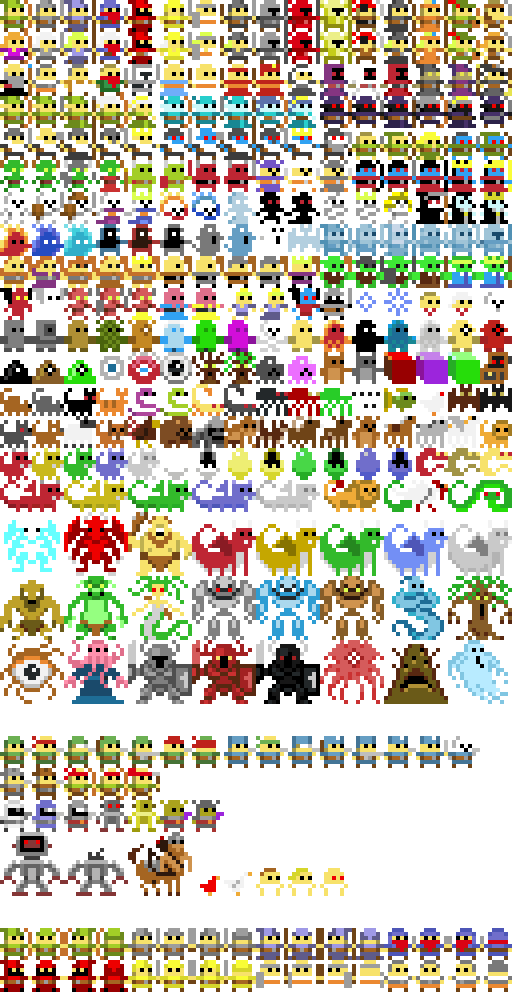
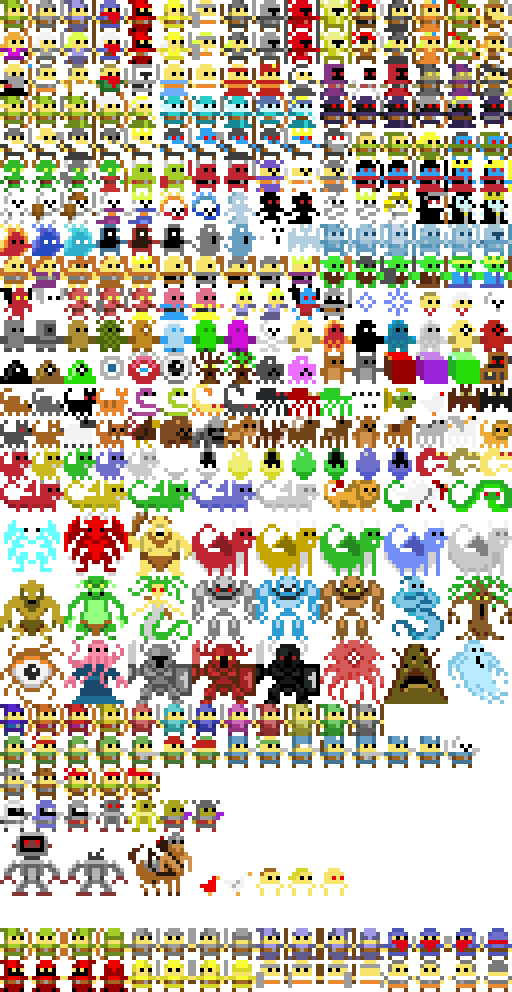
* Units now have different colors so that you can visually distinguish between units of the same class. The unit placement UI reflects this change. The inventory UI still shows the "default" colors.

Changed region(s): [[0.0, 0.6875, 0.75, 0.75]]

diff --git a/src/js/UnitPlacementUI.js b/src/js/UnitPlacementUI.js
@@ -168,22 +168,28 @@
         },
 
 		/**
-		* Figures out the CSS unit class for a specific unit type and returns it. This
-		* unit class is used to specify which image in the CSS file to use.
-		* @param  {PlaceableUnitType} unitType Type of unit
-		* @return {String}          Classes for the particular unit
+         * Figures out the CSS unit class for a specific unit type and returns
+         * it. This unit class is used to specify which image in the CSS file to
+         * use.
+         * @param  {PlaceableUnitType} unitType - Type of unit
+         * @param  {Number} index - the row index of the unit (color is based on
+         * this). Specify 0 to get the "default" color.
+         * @return {String}          Classes for the particular unit
 		*/
-		getCSSUnitClass: function(unitType) {
-			var unitClass;
+		getCSSUnitClass: function(unitType, index) {
+            // All classes start with this. We append to this string below.
+			var unitClass = 'char-sprite ';
+            if ( index > 4 ) index = 0;
+            
 			switch (unitType) {
 			    case game.PlaceableUnitType.ARCHER:
-			        unitClass = 'char-sprite arch32-png';
+                    unitClass += 'arch-alt-' + index + '-png';
 			        break;
 			    case game.PlaceableUnitType.WARRIOR:
-			        unitClass = 'char-sprite war32-png';
+                    unitClass += 'war-alt-' + index + '-png';
 			        break;
 			    case game.PlaceableUnitType.WIZARD:
-			        unitClass = 'char-sprite wiz32-png';
+                    unitClass += 'wiz-alt-' + index + '-png';
 			        break;
 			    default:
 			        console.log("ERROR: Unit type doesn't exist.")
@@ -244,6 +250,16 @@
         },
 
         /**
+         * Sets the buy icon to the correct unit color.
+         */
+        setBuyIconClass: function() {
+            var numUnits = game.UnitManager.getNumOfPlayerUnits(this.unitType);
+            var $unitPlacementBuyIcon = $('#unitPlacementBuyIcon');
+            $unitPlacementBuyIcon.removeAttr('class');
+            $unitPlacementBuyIcon.addClass(this.getCSSUnitClass(this.unitType, numUnits));
+        },
+
+        /**
          * Allows the user to place units and buy slots for all the units of the
          * specified unit type.
          * @param {PlaceableUnitType} unitType Type of unit
@@ -256,15 +272,17 @@
 			
 			$('#buyingScreenContainer').append('<div id="unitContainer">');
 			for (var i = 0; i < unitArray.length; i++) {
-				this.addSlotToPage(unitArray[i]);
+				this.addSlotToPage(unitArray[i], i);
 			}
 			$('#buyingScreenContainer').append('</div>');
 
-            var imageHTML = '<img src="'+game.imagePath+'/img_trans.png" class="'+this.getCSSUnitClass(unitType)+'" />';
+            var imageHTML = '<img id="unitPlacementBuyIcon" src="'+game.imagePath+'/img_trans.png"/>';
 
-			// Add a button to allow the player to buy a new slot
-			$('#buyingScreenContainer').append('<button id="buySlotButton"></button>' +
-												'<span id=buySlotButtonDescription>- Buy ' + imageHTML + ' slot</span>');
+            // Add a button to allow the player to buy a new slot
+            $('#buyingScreenContainer').append('<button id="buySlotButton"></button>' +
+                                                '<span id=buySlotButtonDescription>- Buy ' + imageHTML + ' slot</span>');
+
+            this.setBuyIconClass();
             $('#buySlotButton').button();
             $('#buySlotButton').text(this.costToPurchaseSlot(this.unitType));
             $('#buySlotButton').css({
@@ -285,10 +303,10 @@
 
 			$('#buyingScreenContainer').append('<div id="changingPagesDiv">' +
 											   '<img id="leftArrowImg" src="'+game.imagePath+'/left_arrow.png" width="32" height="32"/>' +
-											   '<img id="leftUnit" src="'+game.imagePath+'/img_trans.png" class="' + this.getCSSUnitClass(nextUnitLeftImage) + '" />' +
+											   '<img id="leftUnit" src="'+game.imagePath+'/img_trans.png" class="' + this.getCSSUnitClass(nextUnitLeftImage, 0) + '" />' +
 											   '<span id="leftUnitAmount" style="font-weight: bold; font-size: 20px; margin-right:2.00em">0</span>' +
 											   '<span id="rightUnitAmount" style="font-weight: bold; font-size: 20px">0</span>' +
-											   '<img id="rightUnit" src="'+game.imagePath+'/img_trans.png" class="' + this.getCSSUnitClass(nextUnitRightImage) + '" />' +
+											   '<img id="rightUnit" src="'+game.imagePath+'/img_trans.png" class="' + this.getCSSUnitClass(nextUnitRightImage, 0) + '" />' +
 											   '<img id="rightArrowImg" src="'+game.imagePath+'/right_arrow.png" width="32" height="32"/>' +
 											   '</div>');
 			$('#leftArrowImg,#leftUnit,#leftUnitAmount').click(function() {
@@ -409,12 +427,13 @@
         /**
          * Adds a slot to the page
          * @param {Unit} unit  Unit that will be in the slot
+         * @param {Number} index - the row index of the unit
          */
-        addSlotToPage: function(unit) {
+        addSlotToPage: function(unit, index) {
             var id = unit.id;
 
 			$('#unitContainer').append('<div id="unit'+id+'">' +
-										'<img id="unitImage'+id+'" src="'+game.imagePath+'/img_trans.png" class="'+this.getCSSUnitClass(unit.unitType)+'" />' +
+										'<img id="unitImage'+id+'" src="'+game.imagePath+'/img_trans.png" class="'+this.getCSSUnitClass(unit.unitType, index)+'" />' +
 										'<span id="unitCost'+id+'" style="font-weight: bold; font-size: 20px"/>' +
 										'<span id="unitLevel'+id+'" style="font-weight: bold; font-size: 20px"/>' +
 										'<span id="unitExperience'+id+'" style="font-weight: bold; font-size: 20px"/>' +
@@ -481,14 +500,32 @@
             var oldBuyYPosition = $('#buySlotButton').position().top;
             var containerY = $('#buyingScreenContainer').parent().position().top;
 
+            var numUnits = game.UnitManager.getNumOfPlayerUnits(this.unitType);
+            var isArcher = (this.unitType == game.PlaceableUnitType.ARCHER);
+            var isWarrior = (this.unitType == game.PlaceableUnitType.WARRIOR);
+            var isWizard = (this.unitType == game.PlaceableUnitType.WIZARD);
+
 			newUnit = new game.Unit(this.unitType, game.PlayerFlags.PLAYER, 1);
+
+            if ( numUnits >= 1 && numUnits <= 4 ) {
+                var extraCostumesArray = null;
+                if ( isArcher ) extraCostumesArray = game.EXTRA_ARCHER_COSTUMES;
+                if ( isWarrior ) extraCostumesArray = game.EXTRA_WARRIOR_COSTUMES;
+                if ( isWizard ) extraCostumesArray = game.EXTRA_WIZARD_COSTUMES;
+
+                // Modify the appearance of the new unit
+                newUnit.graphicIndexes = extraCostumesArray[numUnits - 1];
+            }
+
 			game.UnitManager.addUnit(newUnit);
-			game.UnitPlacementUI.addSlotToPage(newUnit);
+			game.UnitPlacementUI.addSlotToPage(newUnit, numUnits);
 
             var newBuyYPosition = $('#buySlotButton').position().top;
             $('#buyingScreenContainer').parent().css( {
                 top: Math.max(0, containerY + oldBuyYPosition - newBuyYPosition)
             });
+
+            this.setBuyIconClass();
         },
 
         /**

diff --git a/src/css/main.css b/src/css/main.css
@@ -127,14 +127,52 @@ textarea {
     background: url(../../res/img/char_32.png) 0 0 no-repeat;
 }
 
-.arch32-png {
+.arch-alt-0-png {
     background-position: -0px -0px;
 }
-.war32-png {
+.arch-alt-1-png {
+    background-position: -0px -704px;
+}
+.arch-alt-2-png {
+    background-position: -32px -704px;
+}
+.arch-alt-3-png {
+    background-position: -64px -704px;
+}
+.arch-alt-4-png {
+    background-position: -96px -704px;
+}
+
+.war-alt-0-png {
     background-position: -32px -0px;
 }
-.wiz32-png {
+.war-alt-1-png {
+    background-position: -128px -704px;
+}
+.war-alt-2-png {
+    background-position: -160px -704px;
+}
+.war-alt-3-png {
+    background-position: -192px -704px;
+}
+.war-alt-4-png {
+    background-position: -224px -704px;
+}
+
+.wiz-alt-0-png {
     background-position: -64px -0px;
+}
+.wiz-alt-1-png {
+    background-position: -256px -704px;
+}
+.wiz-alt-2-png {
+    background-position: -288px -704px;
+}
+.wiz-alt-3-png {
+    background-position: -320px -704px;
+}
+.wiz-alt-4-png {
+    background-position: -352px -704px;
 }
 
 .smallDiamond-png {

diff --git a/src/js/InventoryUI.js b/src/js/InventoryUI.js
@@ -38,9 +38,9 @@
          * Sets up the entire Inventory UI.
          */
         setupUI: function() {
-            $('#war-section').append('<img src="'+game.imagePath+'/img_trans.png" class="' + 'char-sprite war32-png' + '"/>');
-            $('#wiz-section').append('<img src="'+game.imagePath+'/img_trans.png" class="' + 'char-sprite wiz32-png' + '"/>');
-            $('#arch-section').append('<img src="'+game.imagePath+'/img_trans.png" class="' + 'char-sprite arch32-png' + '"/>');
+            $('#war-section').append('<img src="'+game.imagePath+'/img_trans.png" class="' + 'char-sprite war-alt-0-png' + '"/>');
+            $('#wiz-section').append('<img src="'+game.imagePath+'/img_trans.png" class="' + 'char-sprite wiz-alt-0-png' + '"/>');
+            $('#arch-section').append('<img src="'+game.imagePath+'/img_trans.png" class="' + 'char-sprite arch-alt-0-png' + '"/>');
 
             // Put some starter text for the description
             $('#item-description').html('<h2>Click a slot to select it.</h2>');

diff --git a/src/js/Constants.js b/src/js/Constants.js
@@ -44,4 +44,16 @@
      */
     window.game.DEFAULT_FONT_SIZE = 12;
 
+    /**
+     * Each class has 5 costumes (the default is specified in UnitData.js). The
+     * classes are only 1x1, so we only need to specify an array of length 1 for
+     * each.
+     *
+     * These are the 4 alternate costumes.
+     * @type {Array:Number}
+     */
+    window.game.EXTRA_ARCHER_COSTUMES = [[352],[353],[354],[355]];
+    window.game.EXTRA_WARRIOR_COSTUMES = [[356],[357],[358],[359]];
+    window.game.EXTRA_WIZARD_COSTUMES = [[360],[361],[362],[363]];
+
 }());
